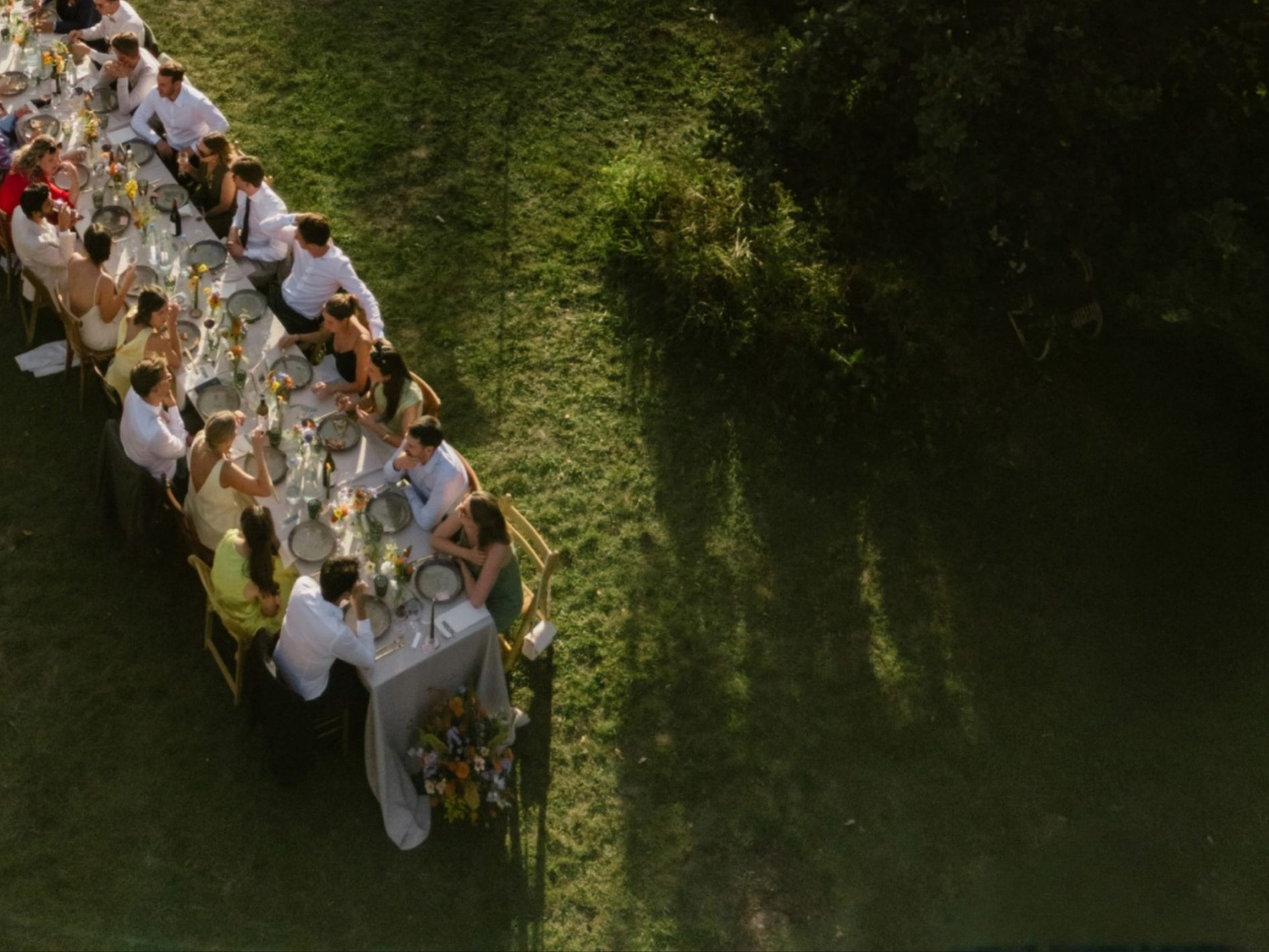
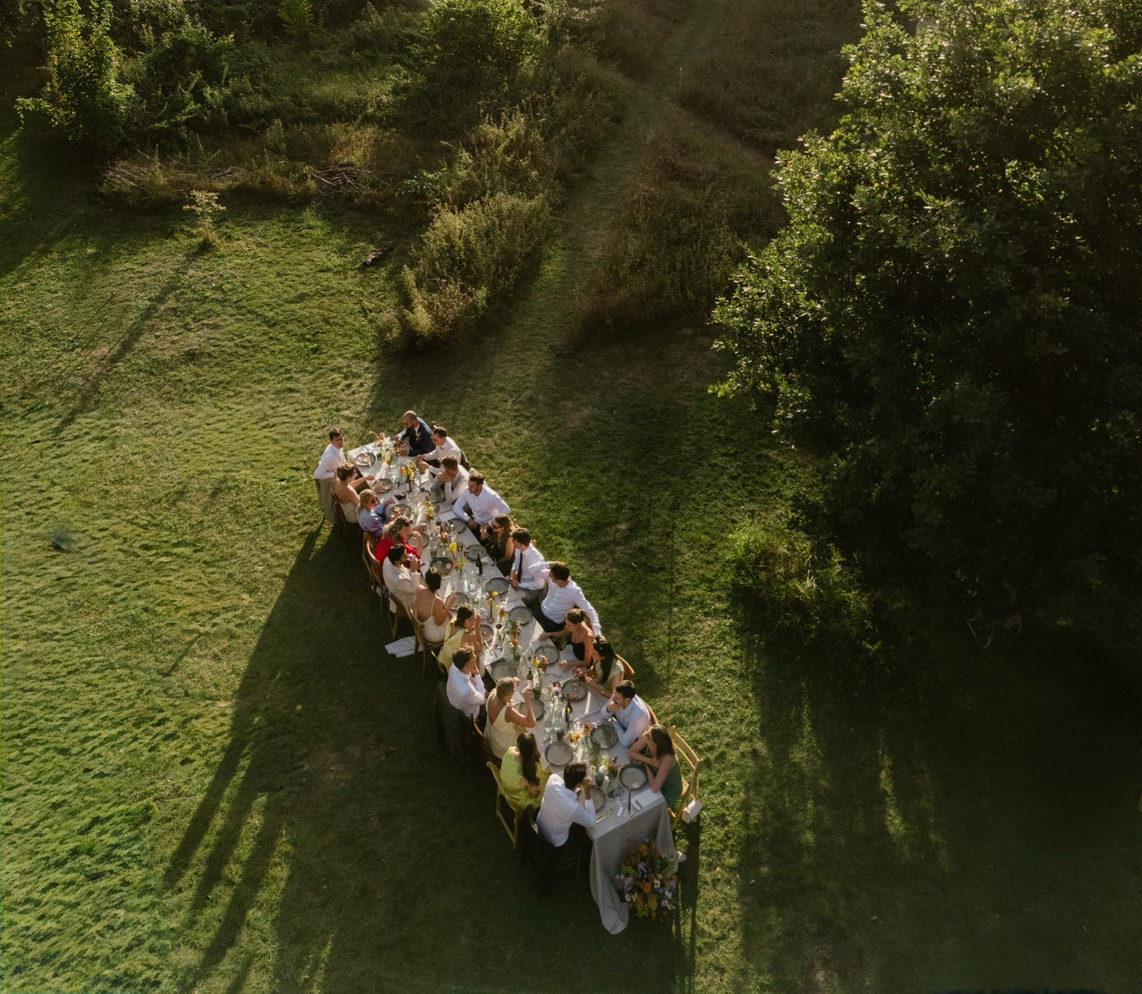
Vervang de reviewsfoto en haal het schild eraf
Nieuwe reviewsfoto uit het aangeleverde origineel van 6048x8064: 1700x1481,
progressive, 339 kB — in lijn met de andere volvlak-beelden (275-380 kB).

De foto is staand en de sectie is volvlak, dus cover kan op een breed scherm
niet zowel de zonnegloed boven als de tafel onder houden. De tafel is het
onderwerp en krijgt voorrang: de uitsnede houdt de tafel, de gouden weide,
het pad en de bomen aan weerszijden.

object-position 45% 78% richt die uitsnede op de tafel in plaats van op het
midden van de foto. Met het midden viel de onderkant van de tafel weg op een
laptop (zichtbaar tot y 0,893 terwijl de tafel tot 0,93 loopt). Nagemeten met
de tafel op x 0,28-0,60 en y 0,42-0,93: volledig in beeld op 375x812,
768x1024 en 1280x800.

Het schild is van de foto af, alleen in deze sectie; de footer houdt het.
"SIR." staat vol geel in plaats van half doorschijnend, en de fotocredit
blijft op dezelfde basislijn staan (nagemeten: 0,00 px).

diff --git a/assets/css/style.css b/assets/css/style.css
@@ -1078,6 +1078,11 @@ address { font-style: normal; }
   z-index: 2;
   background: linear-gradient(100deg, rgba(32,32,32,.10) 0%, rgba(32,32,32,.20) 45%, rgba(38,44,32,.52) 100%);
 }
+/* De reviewsfoto is een dronebeeld met de tafel linksonder in het midden.
+   Bij een volvlak-sectie snijdt cover mee met de schermvorm; dit houdt de
+   tafel in beeld in plaats van het midden van de foto. */
+.reviews__media > img { object-position: 45% 78%; }
+
 .reviews > *:not(.reviews__media):not(.reviews__scrim):not(.shield-overlay):not(.photo-credit) { position: relative; z-index: 3; }
 
 /* Titelblok rechtsboven */
@@ -1163,7 +1168,6 @@ address { font-style: normal; }
   line-height: 1;
   letter-spacing: -.01em;
   color: var(--butter);
-  opacity: .5;
 }
 
 @media (max-width: 47.99em) {

diff --git a/index.html b/index.html
@@ -368,11 +368,10 @@ document.addEventListener('error', function (e) {
        Eén review tegelijk; het pijltje bladert verder.
        ============================================================ -->
   <section class="reviews" id="reviews" aria-label="Reviews">
-    <div class="reviews__media ph ph--hero ph--color" data-label="REVIEWS" data-size="1890 × 1418">
+    <div class="reviews__media ph ph--hero ph--color" data-label="REVIEWS" data-size="1700 × 1481">
       <img src="images/reviews.jpg" alt="" loading="lazy" decoding="async">
     </div>
     <div class="reviews__scrim" aria-hidden="true"></div>
-    <span class="shield-overlay" aria-hidden="true"></span>
 
     <div class="reviews__lede reveal">
       <p class="reviews__kicker">Reviews</p>
